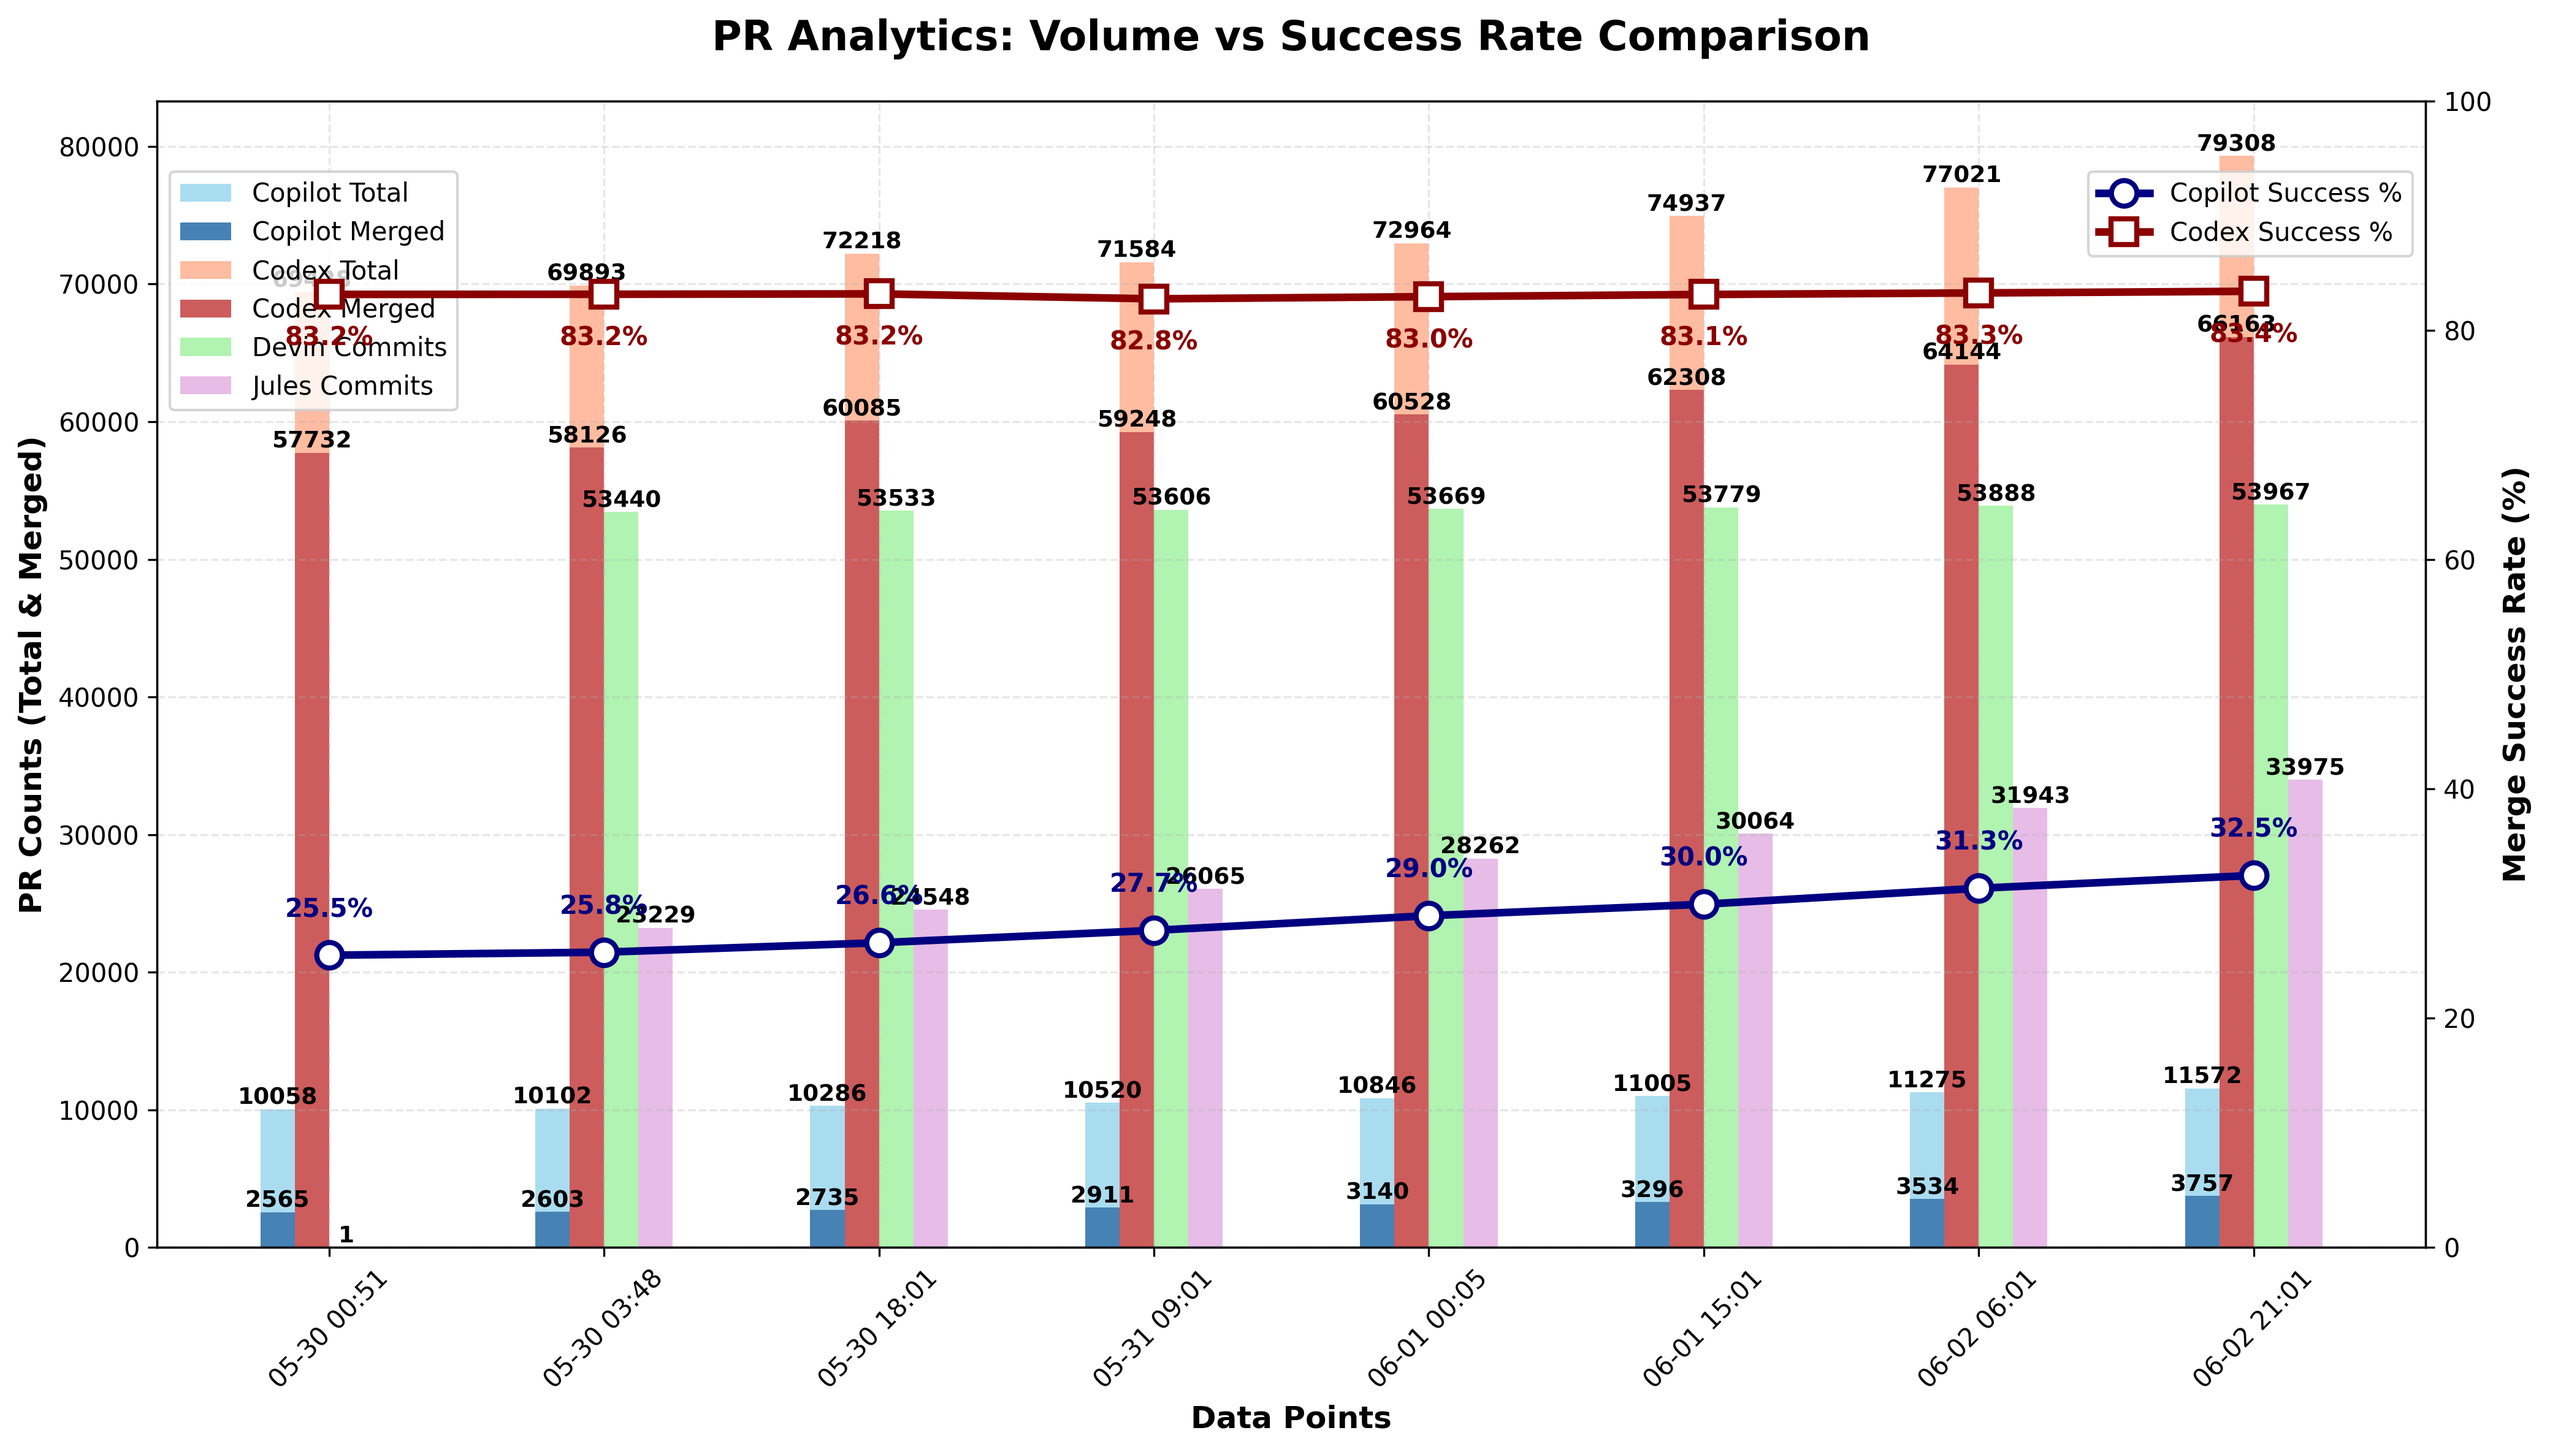
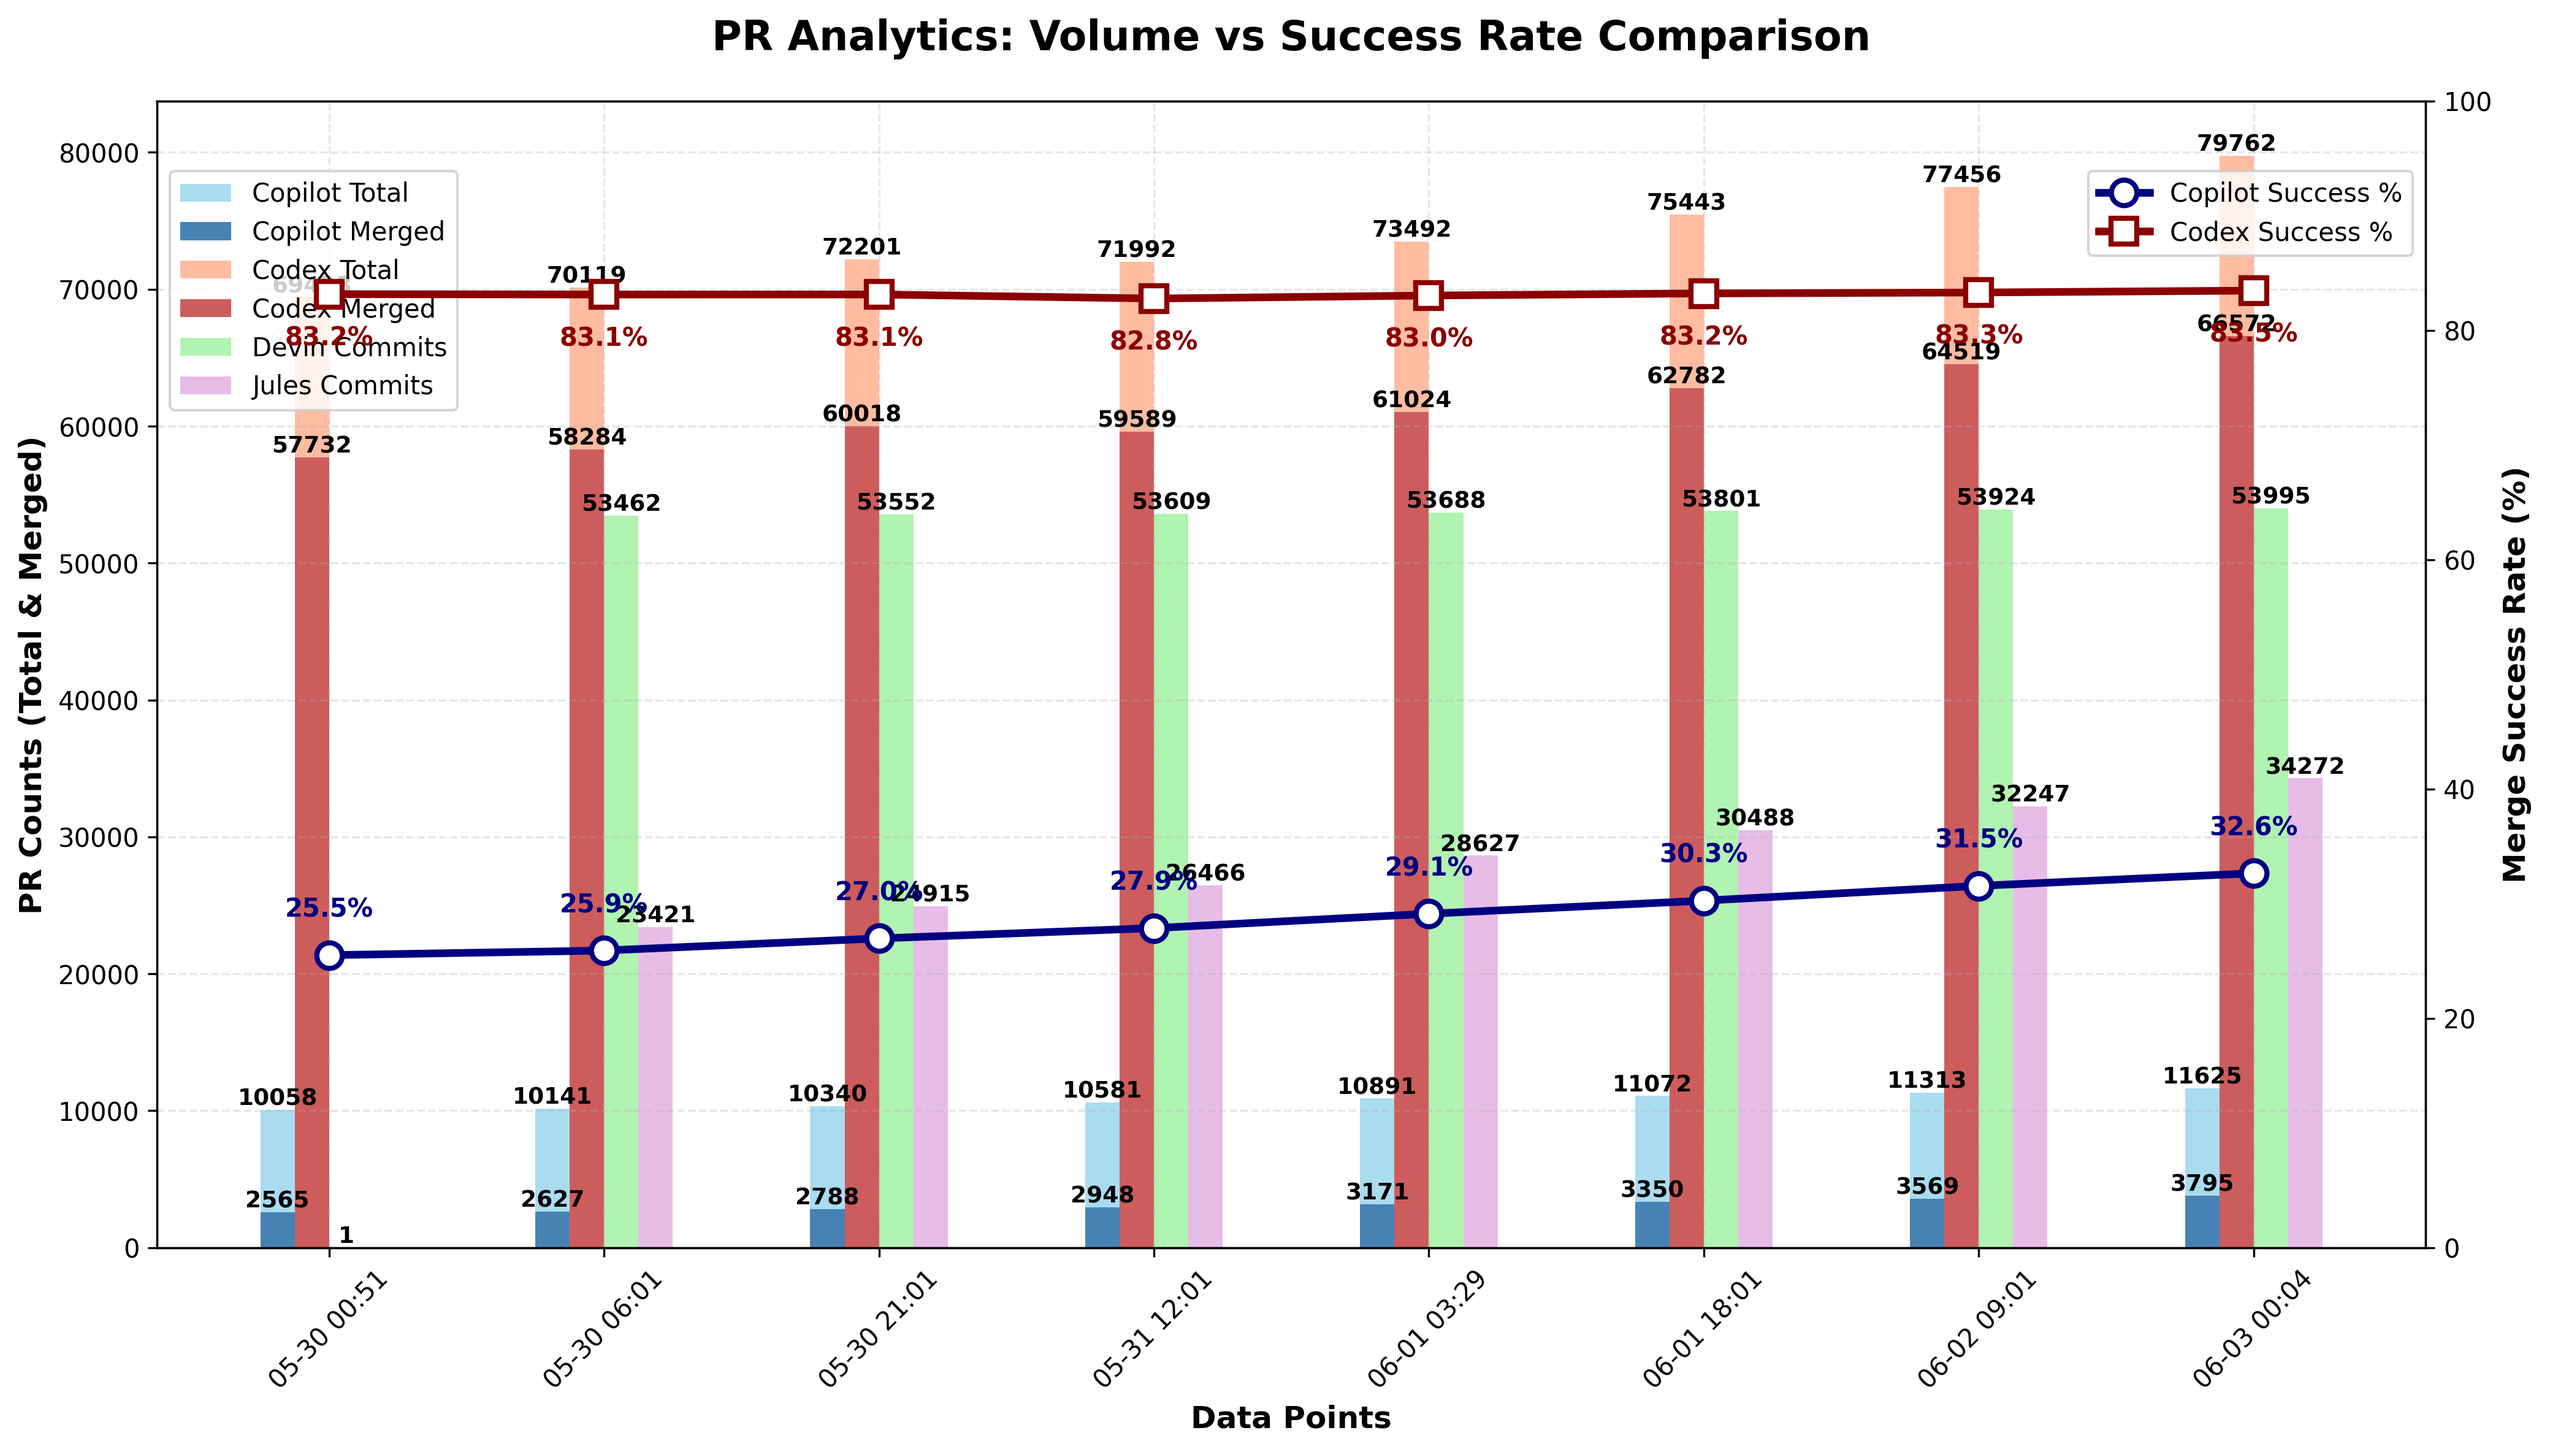
chore: update PR‑approval chart

diff --git a/docs/index.html b/docs/index.html
@@ -82,6 +82,7 @@
                         <td>N/A</td>
                         <td>N/A</td>
                         <td>N/A</td>
+                        <td>N/A</td>
                     </tr>
                     <tr>
                         <td>Codex</td>
@@ -122,27 +123,28 @@
                         <td>N/A</td>
                         <td>N/A</td>
                         <td>N/A</td>
+                        <td>N/A</td>
                     </tr>
                 <tr>
                         <td>Devin</td>
                         <td>N/A</td>
                         <td>N/A</td>
                         <td>N/A</td>
-                        <td>53,967</td>
+                        <td>53,995</td>
                     </tr>
                     <tr>
                         <td>Jules</td>
                         <td>N/A</td>
                         <td>N/A</td>
                         <td>N/A</td>
-                        <td>33,975</td>
+                        <td>34,272</td>
                     </tr>
                     </tbody>
             </table>
         </section>
 
         <footer>
-            <p>Last updated: <span id="last-updated">June 02, 2025 21:01 UTC</span></p>
+            <p>Last updated: <span id="last-updated">June 03, 2025 00:04 UTC</span></p>
             <p><a href="https://github.com/aavetis/ai-pr-watcher">View on GitHub</a></p>
         </footer>
     </div>

diff --git a/README.md b/README.md
@@ -19,7 +19,7 @@ Explore the GitHub search queries used:
 
 | Service | Total PRs | Merged PRs | Merge Rate | Total Commits |
 | ------- | --------- | ---------- | ---------- | ------------- |
-| Copilot | 11,572 | 3,757 | 32.47% | N/A           |
-| Codex   | 79,308 | 66,163 | 83.43% | N/A           |
-| Devin   | N/A       | N/A        | N/A        | 53,967 |
-| Jules   | N/A       | N/A        | N/A        | 33,975 |
+| Copilot | 11,625 | 3,795 | 32.65% | N/A           |
+| Codex   | 79,762 | 66,572 | 83.46% | N/A           |
+| Devin   | N/A       | N/A        | N/A        | 53,995 |
+| Jules   | N/A       | N/A        | N/A        | 34,272 |
